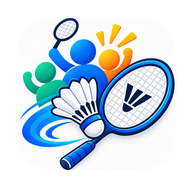
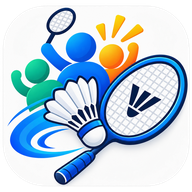
Add files via upload

diff --git a/index.html b/index.html
@@ -373,7 +373,7 @@ const Wallet=__mk('<path d="M19 7V4a1 1 0 0 0-1-1H5a2 2 0 0 0 0 4h15a1 1 0 0 1 1
 const Trophy=__mk('<path d="M6 9H4.5a2.5 2.5 0 0 1 0-5H6"/><path d="M18 9h1.5a2.5 2.5 0 0 0 0-5H18"/><path d="M4 22h16"/><path d="M10 14.66V17c0 .55-.47.98-.97 1.21C7.85 18.75 7 20.24 7 22"/><path d="M14 14.66V17c0 .55.47.98.97 1.21C16.15 18.75 17 20.24 17 22"/><path d="M18 2H6v7a6 6 0 0 0 12 0V2Z"/>');
 const Upload=__mk('<path d="M21 15v4a2 2 0 0 1-2 2H5a2 2 0 0 1-2-2v-4"/><path d="M17 8l-5-5-5 5"/><path d="M12 3v12"/>');
 // ===================== APP =====================
-const APP_VERSION = "1.1.10";
+const APP_VERSION = "1.1.11";
 const LEVELS = ["R", "BG1", "BG2", "BG3", "S-", "S", "N-", "N", "P-", "P", "C"];
 const WEIGHT = {
   R: 1,
@@ -1215,7 +1215,7 @@ function App() {
       marginBottom: 16
     }
   }, /*#__PURE__*/React.createElement("img", {
[2 lines of base64/hex data omitted]
     alt: "BadQ",
     style: {
       width: 32,
